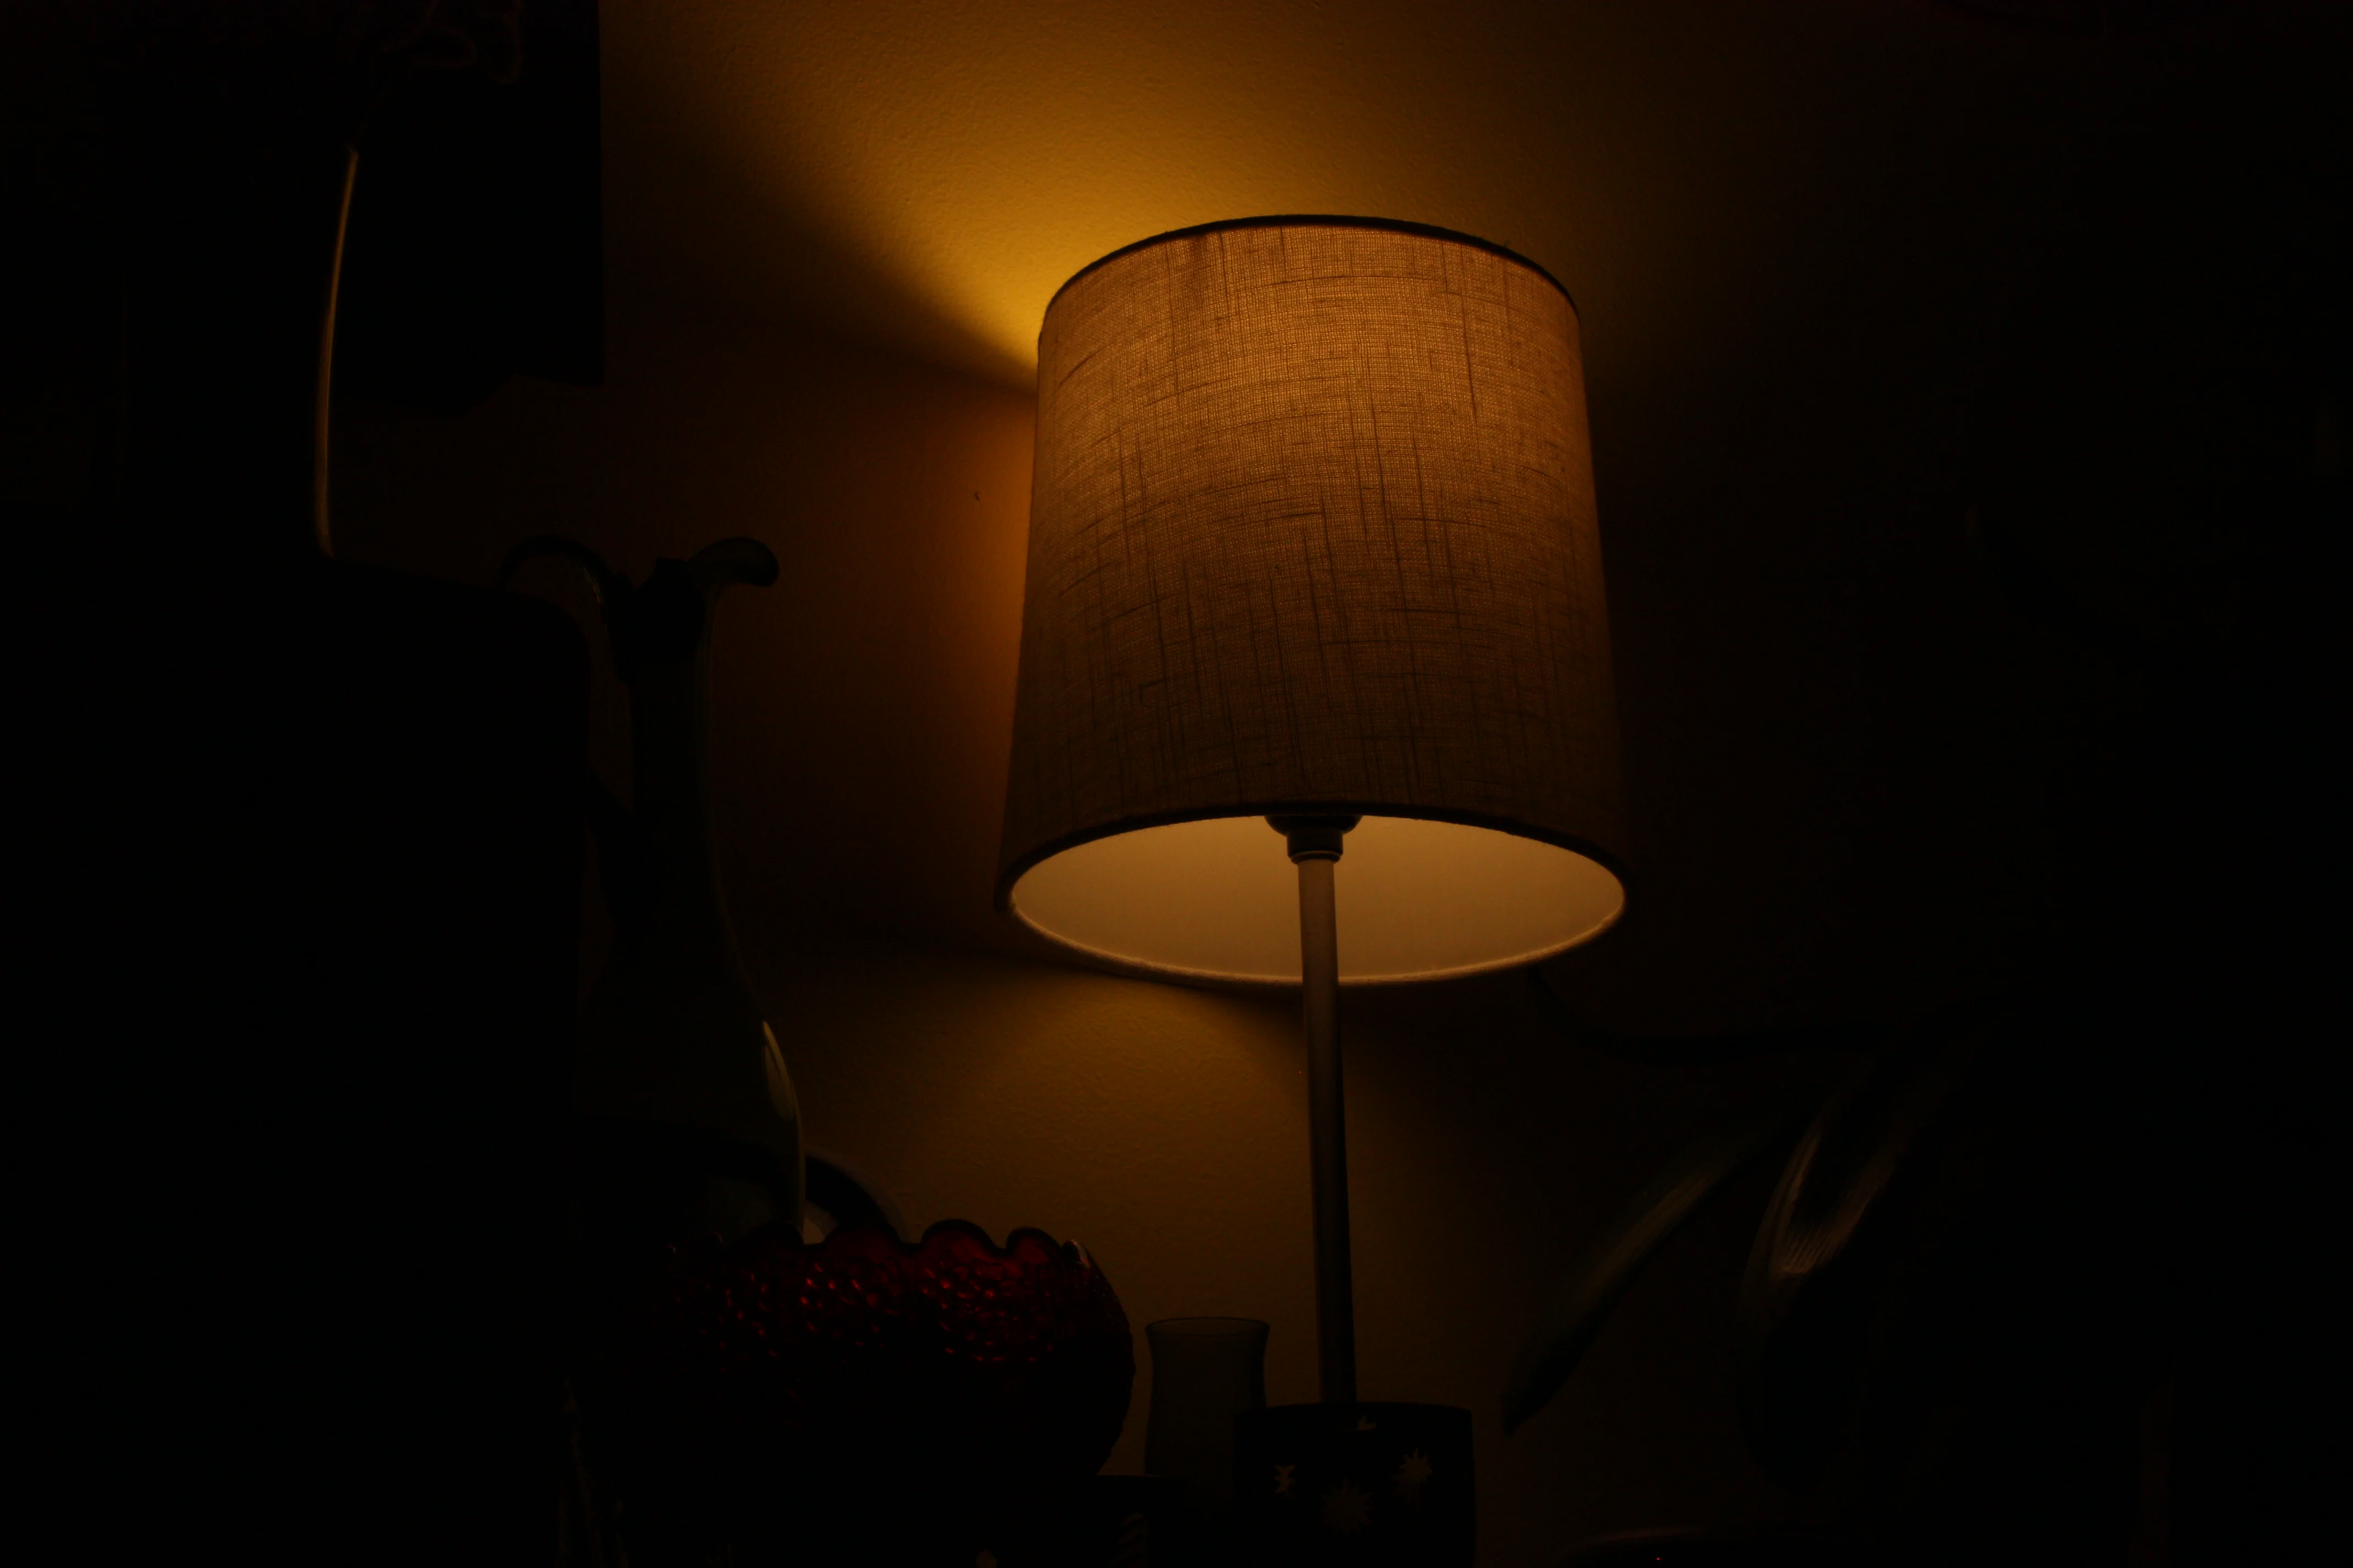
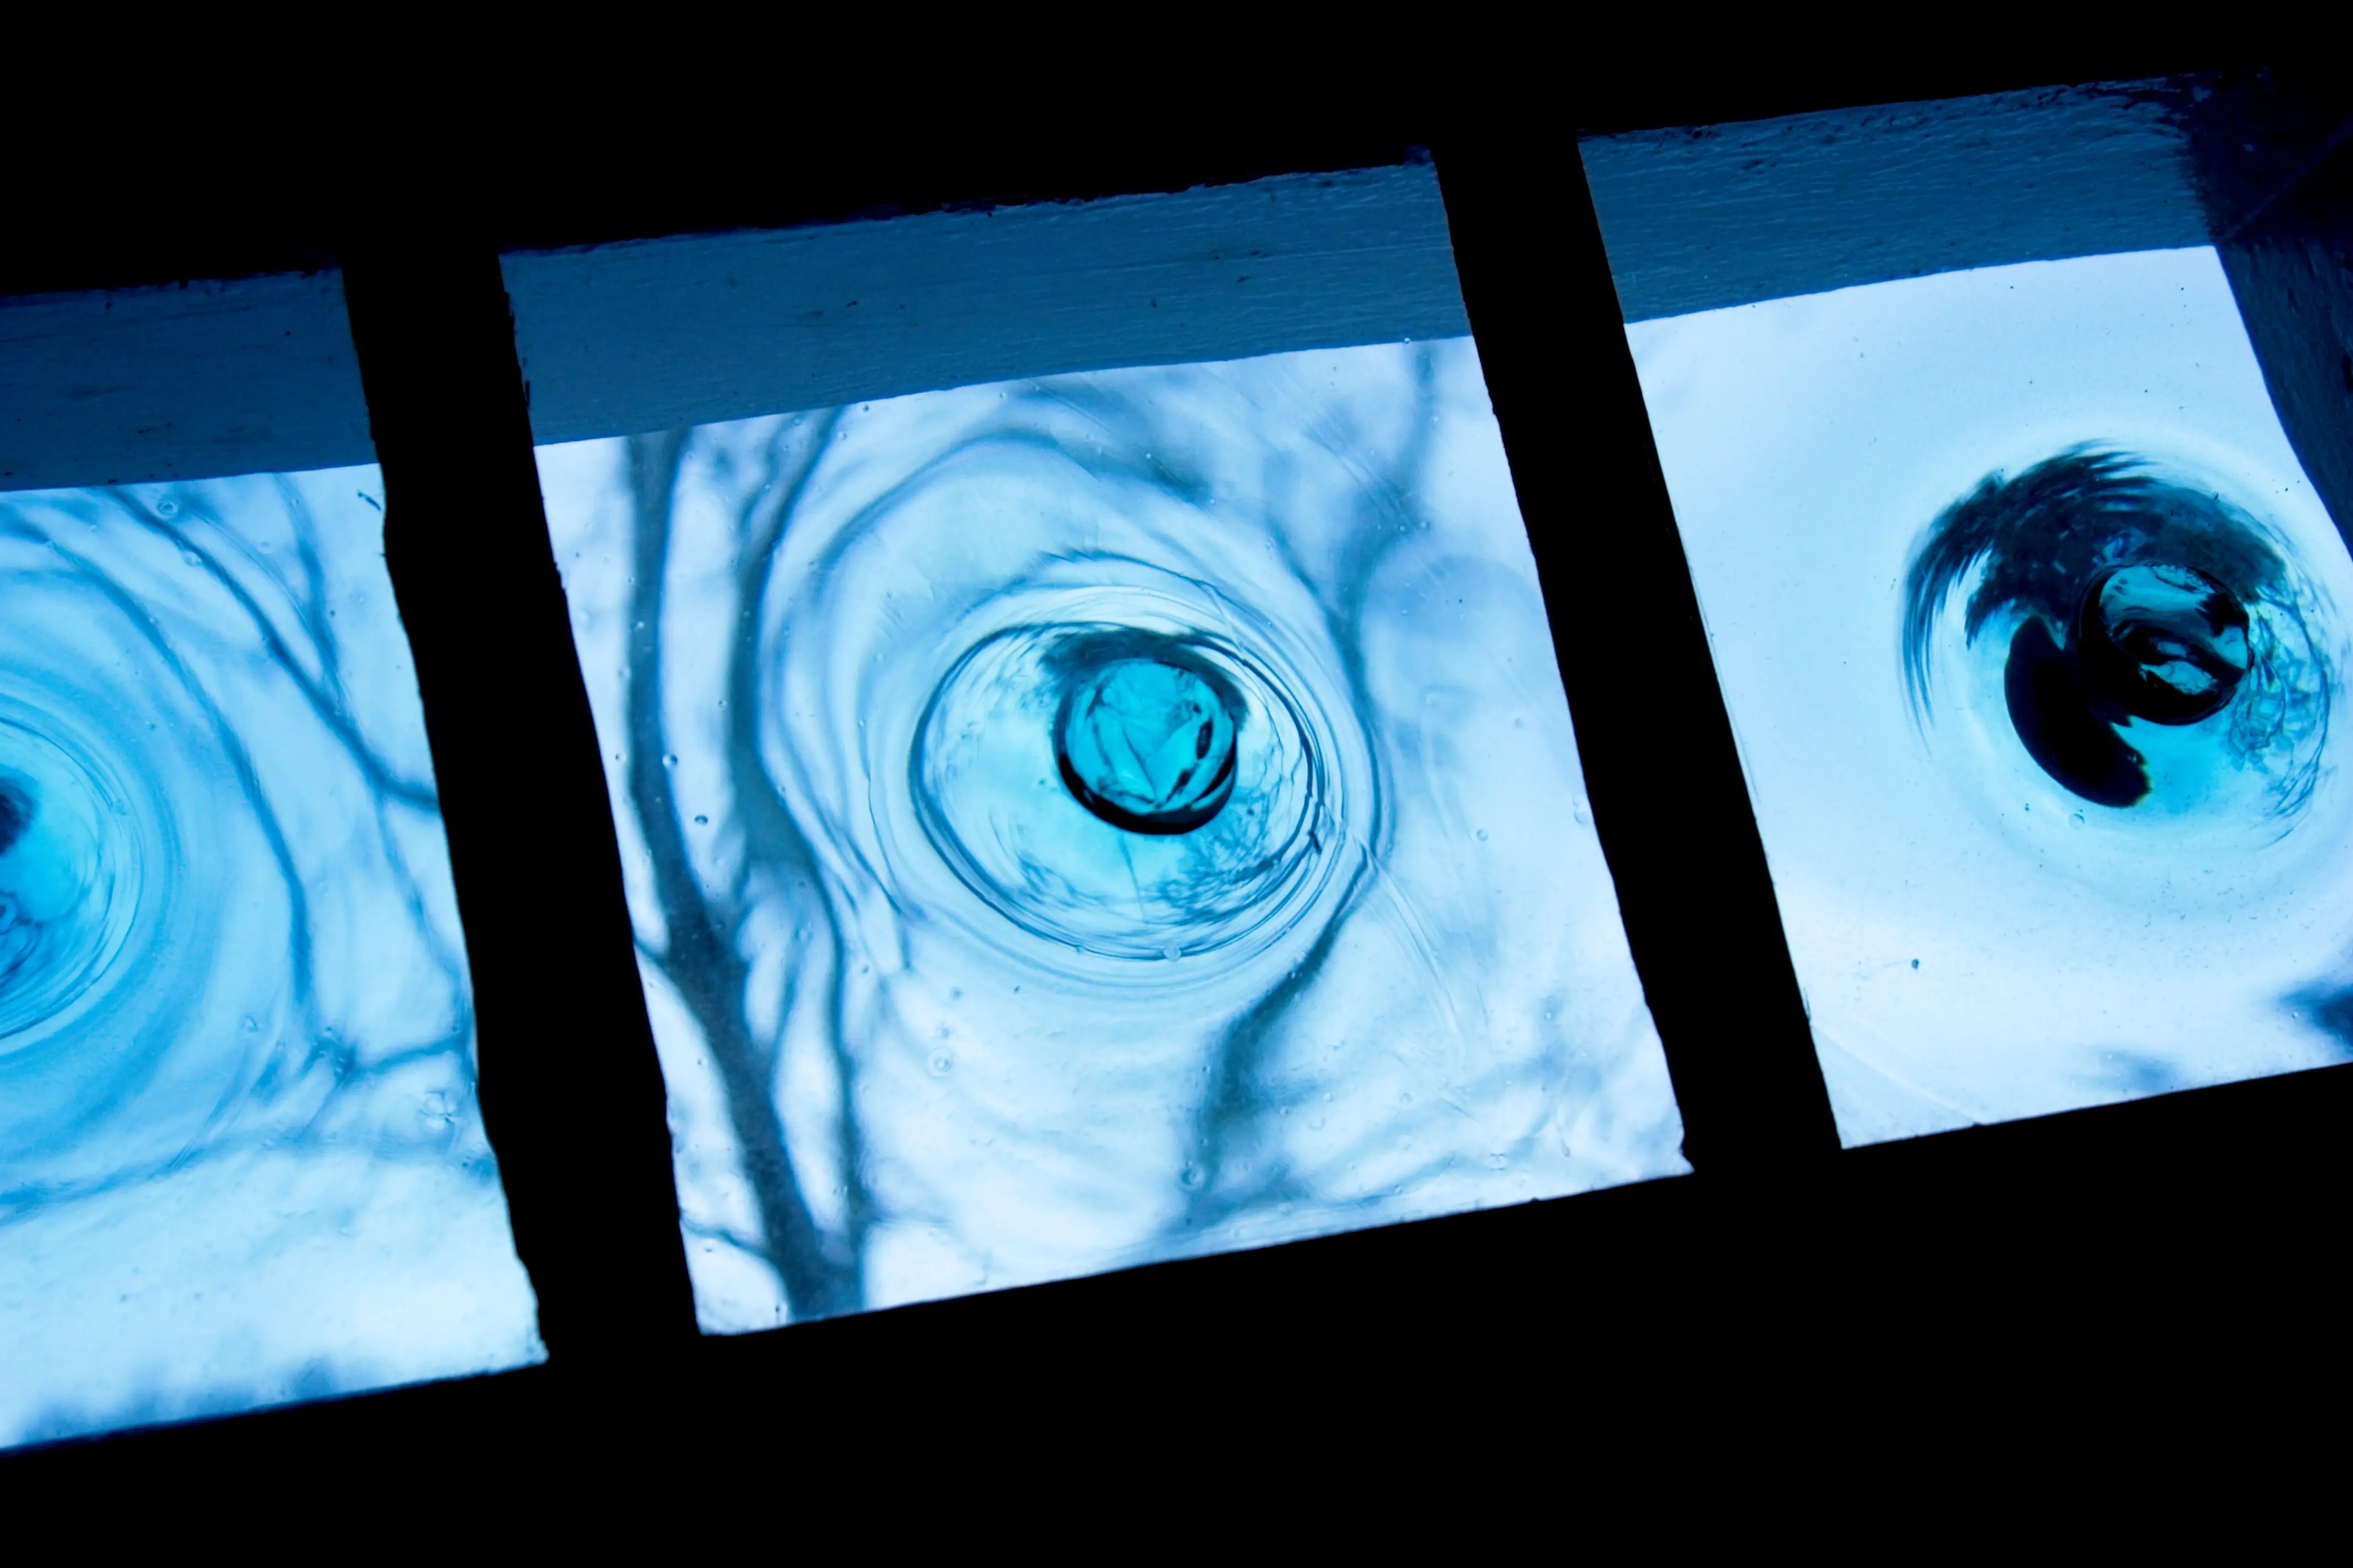
added new images and created base for about page

diff --git a/about/index.html b/about/index.html
@@ -6,20 +6,20 @@ removed before deployment.-->
 <!DOCTYPE html>
 <html lang="en">
 <head>
-  <title>[development Site]</title> <!--Make sure to change this!-->
+  <title>CyberCatBlues | About</title>
   <meta charset="utf-8" />
   <meta name="viewport" content="width=device-width, initial-scale=1.0" />
   <meta name="robots" content="index,follow" />
   <meta name="description" content="All of CyberCatBlues in one place" />
-  <meta name="keywords" content="CyberCatBlues" /> <!--added extra keywords here!-->
+  <meta name="keywords" content="CyberCatBlues, About, Information" />
   <meta property="og:title" content="cybercatblues.com" />
-  <meta property="og:description" content="[development Site]" /> <!--Make sure to change this!-->
+  <meta property="og:description" content="All about CyberCatBlues" />
   <meta property="og:image" content="https://cybercatblues.com/assets/CyberCatBlues-Logo-circle.png" />
   <link rel="icon" href="https://cybercatblues.com/assets/CyberCatBlues-Logo-circle.png" />
   <!--This is the main style for all future pages (This is not the style.css in main dir)-->
   <link rel="stylesheet" href="/main-style.css" />
   <!--This is the style code for specifc elements of the page. Never add to main-style.css unless for ui updates-->
-  <!--<link rel="stylesheet" href="/main-style.css" />-->
+  <link rel="stylesheet" href="/about-style.css" />
 </head>
 
 <body id="ibody" class="gjs-t-body">

diff --git a/art/photography/index.html b/art/photography/index.html
@@ -29,7 +29,7 @@
           </div>
           <div data-gjs="navbar-items" class="navbar-items-c">
             <nav class="navbar-menu-nav"><a href="https://cybercatblues.com" class="nav-links">Home</a><a
-                href="https://cybercatblues.com/art" class="nav-links">Art</a><a href="https://liminallimits.com"
+                href="https://cybercatblues.com/art/photography" class="nav-links">Art</a><a href="https://liminallimits.com"
                 class="nav-links">Music</a><a href="https://cybercatblues.com/about" class="nav-links">About</a></nav>
           </div>
         </div>
@@ -54,7 +54,7 @@
     <div class="gjs-container">
       <div data-type-role="flex-row" id="photo-header" class="gjs-plg-flex-row">
         <div data-type-role="flex-column" class="gjs-plg-flex-column">
-          <h5 id="photo-sub">Last Updated 1/18/2026</h5>
+          <h5 id="photo-sub">Last Updated 5/04/2026</h5>
           <h2 id="photo-title" class="gjs-t-h1">Showcase</h2>
           <div id="photo-text">Below is some of the most recent images.<br/>(<i>Please remember that these images are copyrighted, feel free to contact me
             if you would like to license them!)</i></div>

diff --git a/index.html b/index.html
@@ -30,7 +30,7 @@
           </div>
           <div data-gjs="navbar-items" class="navbar-items-c">
             <nav class="navbar-menu-nav"><a href="https://cybercatblues.com" class="nav-links">Home</a><a
-                href="https://cybercatblues.com/photography" class="nav-links">Art</a><a href="https://liminallimits.com"
+                href="https://cybercatblues.com/art/photography" class="nav-links">Art</a><a href="https://liminallimits.com"
                 class="nav-links">Music</a><a href="https://cybercatblues.com/about" class="nav-links">About</a></nav>
           </div>
         </div>
